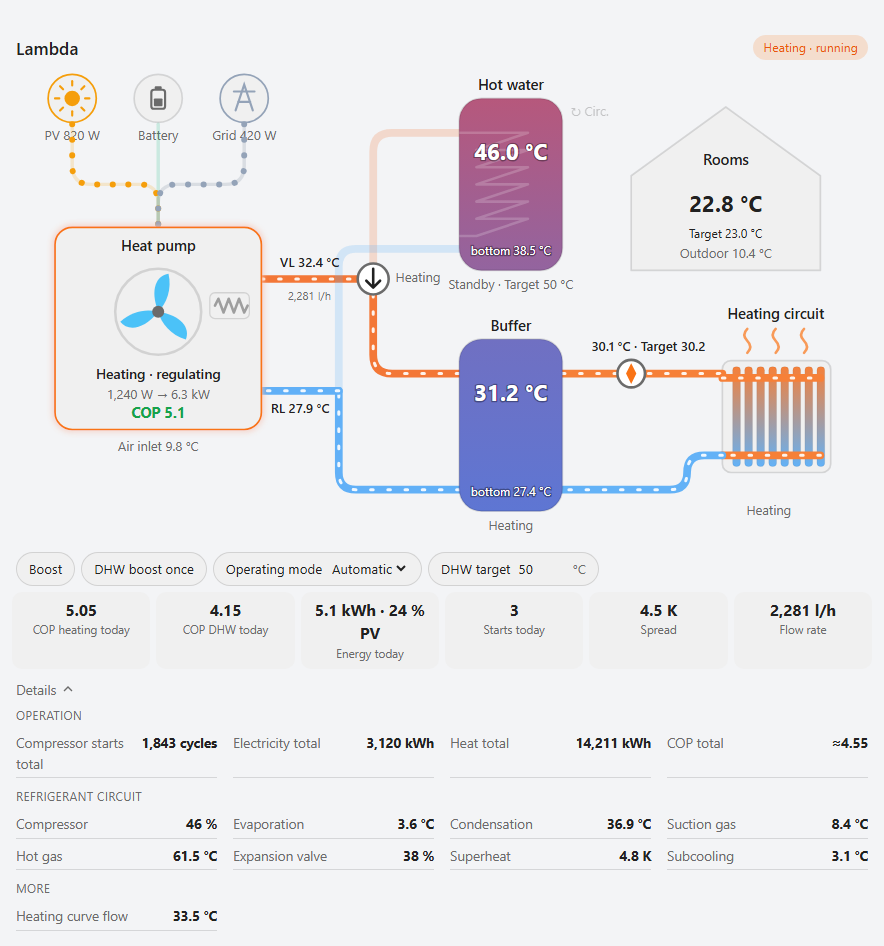
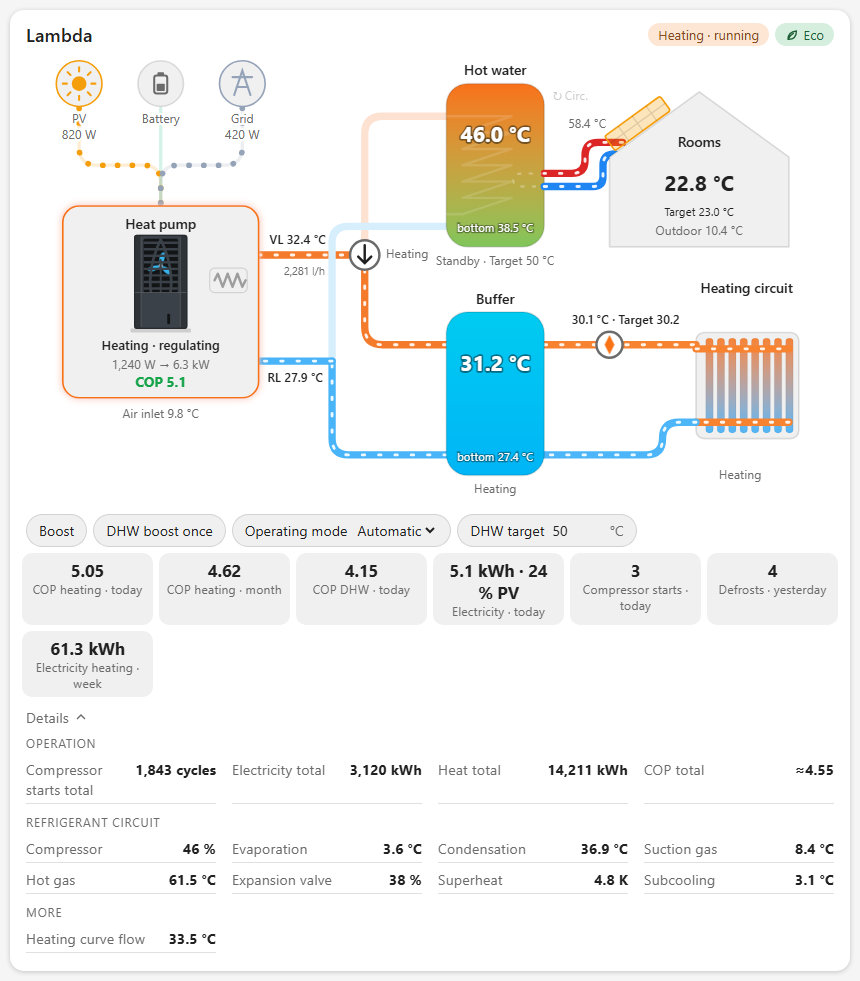
New README images: hero, demo GIF, layouts, unit drawings, keyboard focus, refreshed gallery
- docs/social-preview.png (1280 x 640) as README header and GitHub social preview.
- New demo GIF (Lambda heating, hot water, defrost, Vaillant unit drawings).
- layouts.png (phone light and dark, compact, wide, wall), units.png, keyboard-focus.png.
- Preset gallery re-rendered with the current look (PNG instead of JPG).

diff --git a/README.md b/README.md
@@ -7,6 +7,8 @@
 
 [![Open your Home Assistant instance and open this repository inside HACS.](https://my.home-assistant.io/badges/hacs_repository.svg)](https://my.home-assistant.io/redirect/hacs_repository/?owner=Sturmi77&repository=heatpump-flow-card&category=plugin)
 
+![Heatpump Flow Card: the animated heat pump schematic in a light and a dark theme](docs/social-preview.png)
+
 An **animated hydraulic schematic** for air-to-water heat pumps in Home Assistant.
 
 It shows electricity flowing from **PV, battery and grid** into the heat pump, the **diverter valve** switching between hot water and heating, colour-coded **tanks**, the **heating circuit** and your rooms. Animation speed follows the real flow rate. The core is vendor-neutral: **presets** make it zero-config for popular heat pumps:
@@ -22,7 +24,7 @@ It shows electricity flowing from **PV, battery and grid** into the heat pump, t
 > [!NOTE]
 > The **Viessmann**, **Vaillant**, **EMS-ESP** and **HeishaMon** presets are **not yet tested with a real installation**. They are built from the source code of the respective integrations and checked with simulated data. Feedback is very welcome: please [open an issue](https://github.com/Sturmi77/heatpump-flow-card/issues) with your entity list if something is missing or wrong. The Lambda preset runs on a real installation.
 
-![Animated demo: heating, hot water and defrost](docs/demo.gif)
+![Animated demo: heating, hot water and defrost, with the Lambda and Vaillant unit drawings](docs/demo.gif)
 
 **[Try the live demo](https://sturmi77.github.io/heatpump-flow-card/demo/)**: every preset in heating, hot water, defrost and standby, light and dark, English and German, with the matching card configuration. Runs in the browser with simulated data, no Home Assistant needed.
 
@@ -50,15 +52,23 @@ It shows electricity flowing from **PV, battery and grid** into the heat pump, t
 
 | Viessmann preset, radiators | Vaillant preset, DHW run | Lambda zero-config, DHW run |
 |---|---|---|
-| ![](docs/vicare-radiator.jpg) | ![](docs/vaillant-dhw.jpg) | ![](docs/zero-config-dhw.jpg) |
+| ![](docs/vicare-radiator.png) | ![](docs/vaillant-dhw.png) | ![](docs/zero-config-dhw.png) |
 
 | Details drawer and quick controls | Ground source, two circuits, heater rod | EMS-ESP preset (Buderus) | HeishaMon preset (Panasonic), radiators | Other brand, minimal setup | Dark theme |
 |---|---|---|---|---|---|
-| ![](docs/details.png) | ![](docs/ground-source.png) | ![](docs/emsesp-heating.jpg) | ![](docs/heishamon-radiator.jpg) | ![](docs/other-brand-minimal.jpg) | ![](docs/dark.jpg) |
+| ![](docs/details.png) | ![](docs/ground-source.png) | ![](docs/emsesp-heating.png) | ![](docs/heishamon-radiator.png) | ![](docs/other-brand-minimal.png) | ![](docs/dark.png) |
 
 | Live on a real Lambda installation |
 |---|
 | ![Live view while heating](docs/live-heating.jpg) |
+
+![One card from phone to wall tablet: phone light and dark, compact, wide and wall layout](docs/layouts.png)
+
+![The outdoor unit in the schematic: generic fan, Lambda EU-L and the Vaillant aroTHERM plus in three sizes](docs/units.png)
+
+| Keyboard focus |
+|---|
+| ![Focus frame around the hot water tank](docs/keyboard-focus.png) |
 
 ## Installation
 
